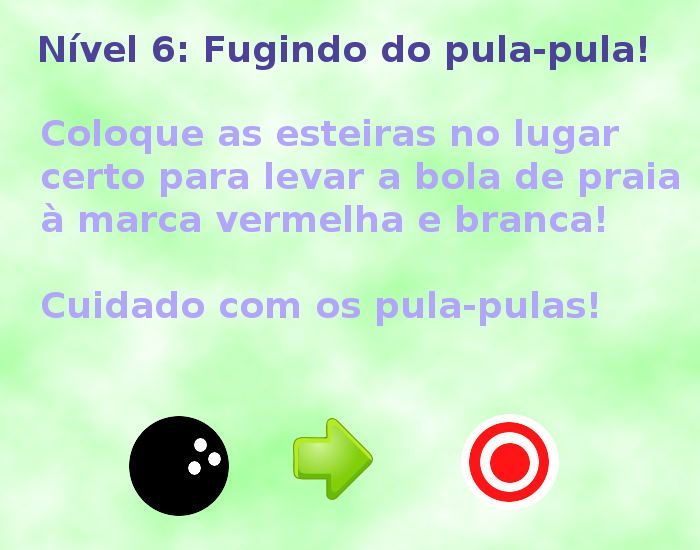
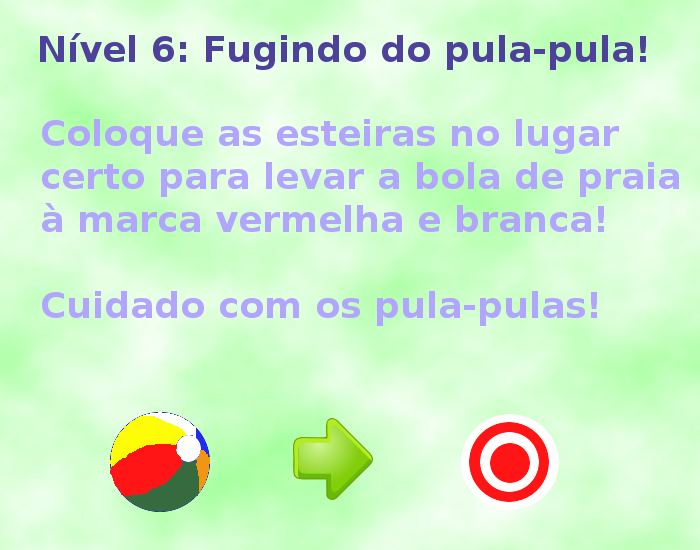
Versao final do GameJam

Changed region(s): [[0.15, 0.7418, 0.33, 0.9582]]

diff --git a/Gambiarra/levels.py b/Gambiarra/levels.py
@@ -185,7 +185,7 @@ def init_levels():
     level4ObjToAdd = [ Esteira(), Esteira()]
     level4Goal = level4ObjInPlace[-1]
     level4ToGoal = level4ObjInPlace[0]
-    level4HelpImage = pygame.image.load("../data/images/obj-level3.png")
+    level4HelpImage = pygame.image.load("../data/images/obj-level4.png")
 
     level5ObjInPlace = [ BowlingBall((1000,300), editable=False),
                          Esteira((1000,500), editable=False),
@@ -193,7 +193,7 @@ def init_levels():
     level5ObjToAdd = [ Esteira(), Esteira()]
     level5Goal = level5ObjInPlace[-1]
     level5ToGoal = level5ObjInPlace[0]
-    level5HelpImage = pygame.image.load("../data/images/obj-level3.png")
+    level5HelpImage = pygame.image.load("../data/images/obj-level5.png")
 
     level6ObjInPlace = [ BeachBall((800,50),editable = False),
                          Elastica((800,400),editable = False),
@@ -202,7 +202,7 @@ def init_levels():
     level6ObjToAdd = [ Esteira(), Esteira() ]
     level6Goal = level6ObjInPlace[-1]
     level6ToGoal = level6ObjInPlace[0]
-    level6HelpImage = pygame.image.load("../data/images/obj-level3.png")
+    level6HelpImage = pygame.image.load("../data/images/obj-level6.png")
 
     level1 = Level( level1ObjInPlace, level1ObjToAdd, level1Goal,
                     level1ToGoal, level1HelpImage)

diff --git a/Gambiarra/objects/esteira.py b/Gambiarra/objects/esteira.py
@@ -23,7 +23,7 @@ from os.path import abspath
 
 import pygame
 
-from things import Thing
+from things import Thing, NoSound
 
 class Esteira(Thing):
 
@@ -32,7 +32,7 @@ class Esteira(Thing):
     def __init__(self, initialPosition = [0,0], editable=True):
         super(Esteira, self).__init__(
               pygame.image.load(abspath("../data/images/esteira_dir.png")),
-              editable, pygame.mixer.Sound(abspath("../data/snd/dummy.wav")),
+              editable, NoSound(),
               initialPosition, elasticity = 100, mobility = False,
               gravity = 10)
         self.sentido = 1

diff --git a/Gambiarra/objects/target.py b/Gambiarra/objects/target.py
@@ -23,12 +23,12 @@ from os.path import abspath
 
 import pygame
 
-from things import Thing
+from things import Thing, NoSound
 
 class Target(Thing):
     def __init__(self, initialPosition = [0,0], editable=True):
         super(Target, self).__init__(
               pygame.image.load(abspath("../data/images/target.png")),
-              editable, pygame.mixer.Sound(abspath("../data/snd/dummy.wav")),
+              editable, NoSound(),
               initialPosition, elasticity = 100, mobility = False,
               gravity = 10)
